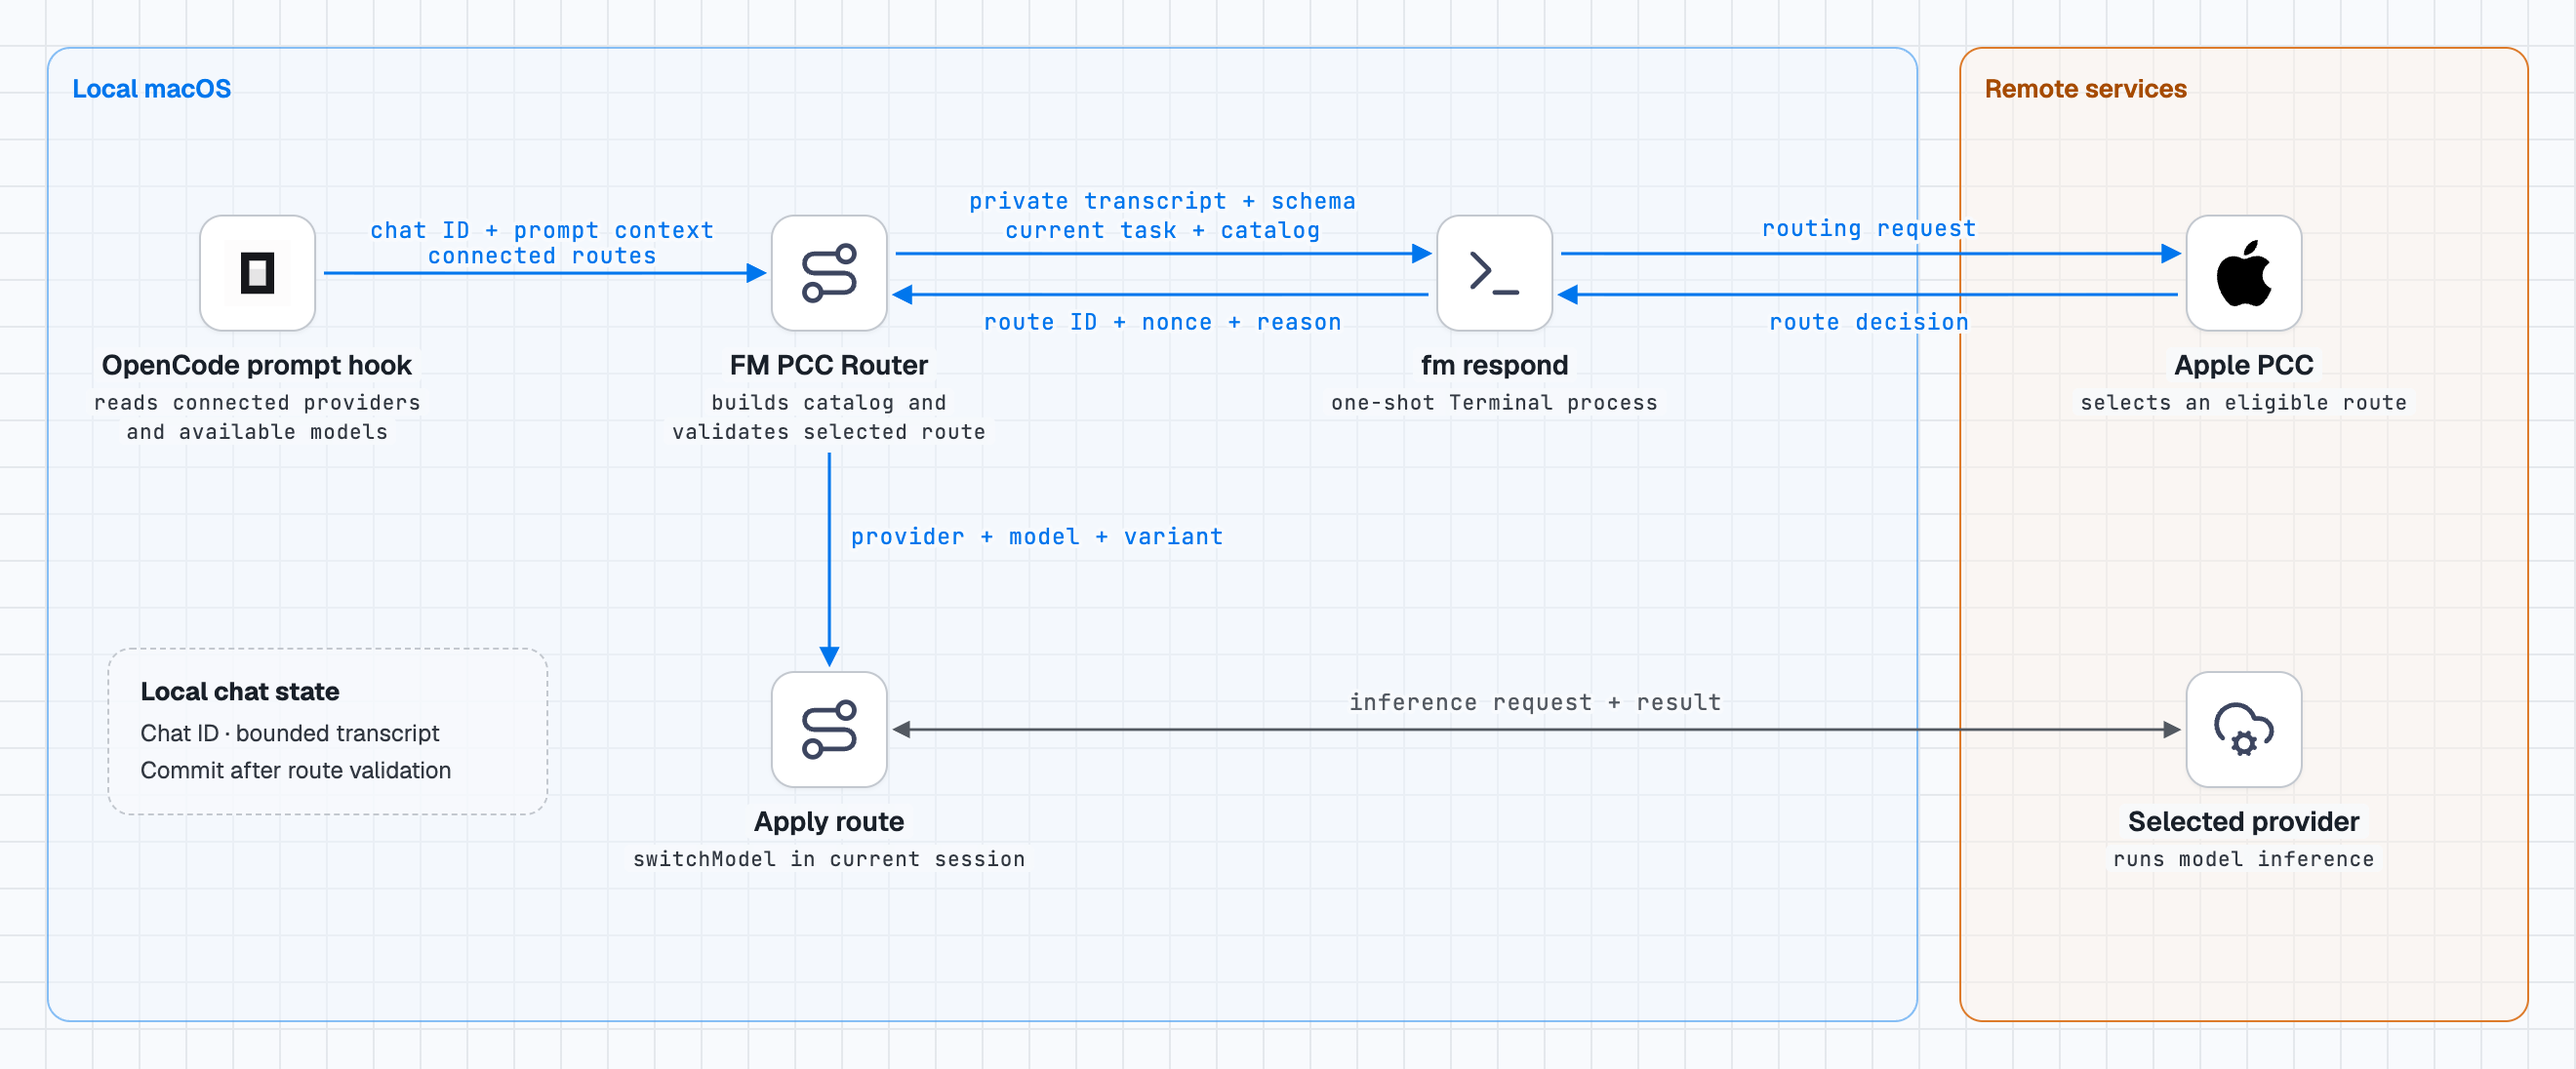
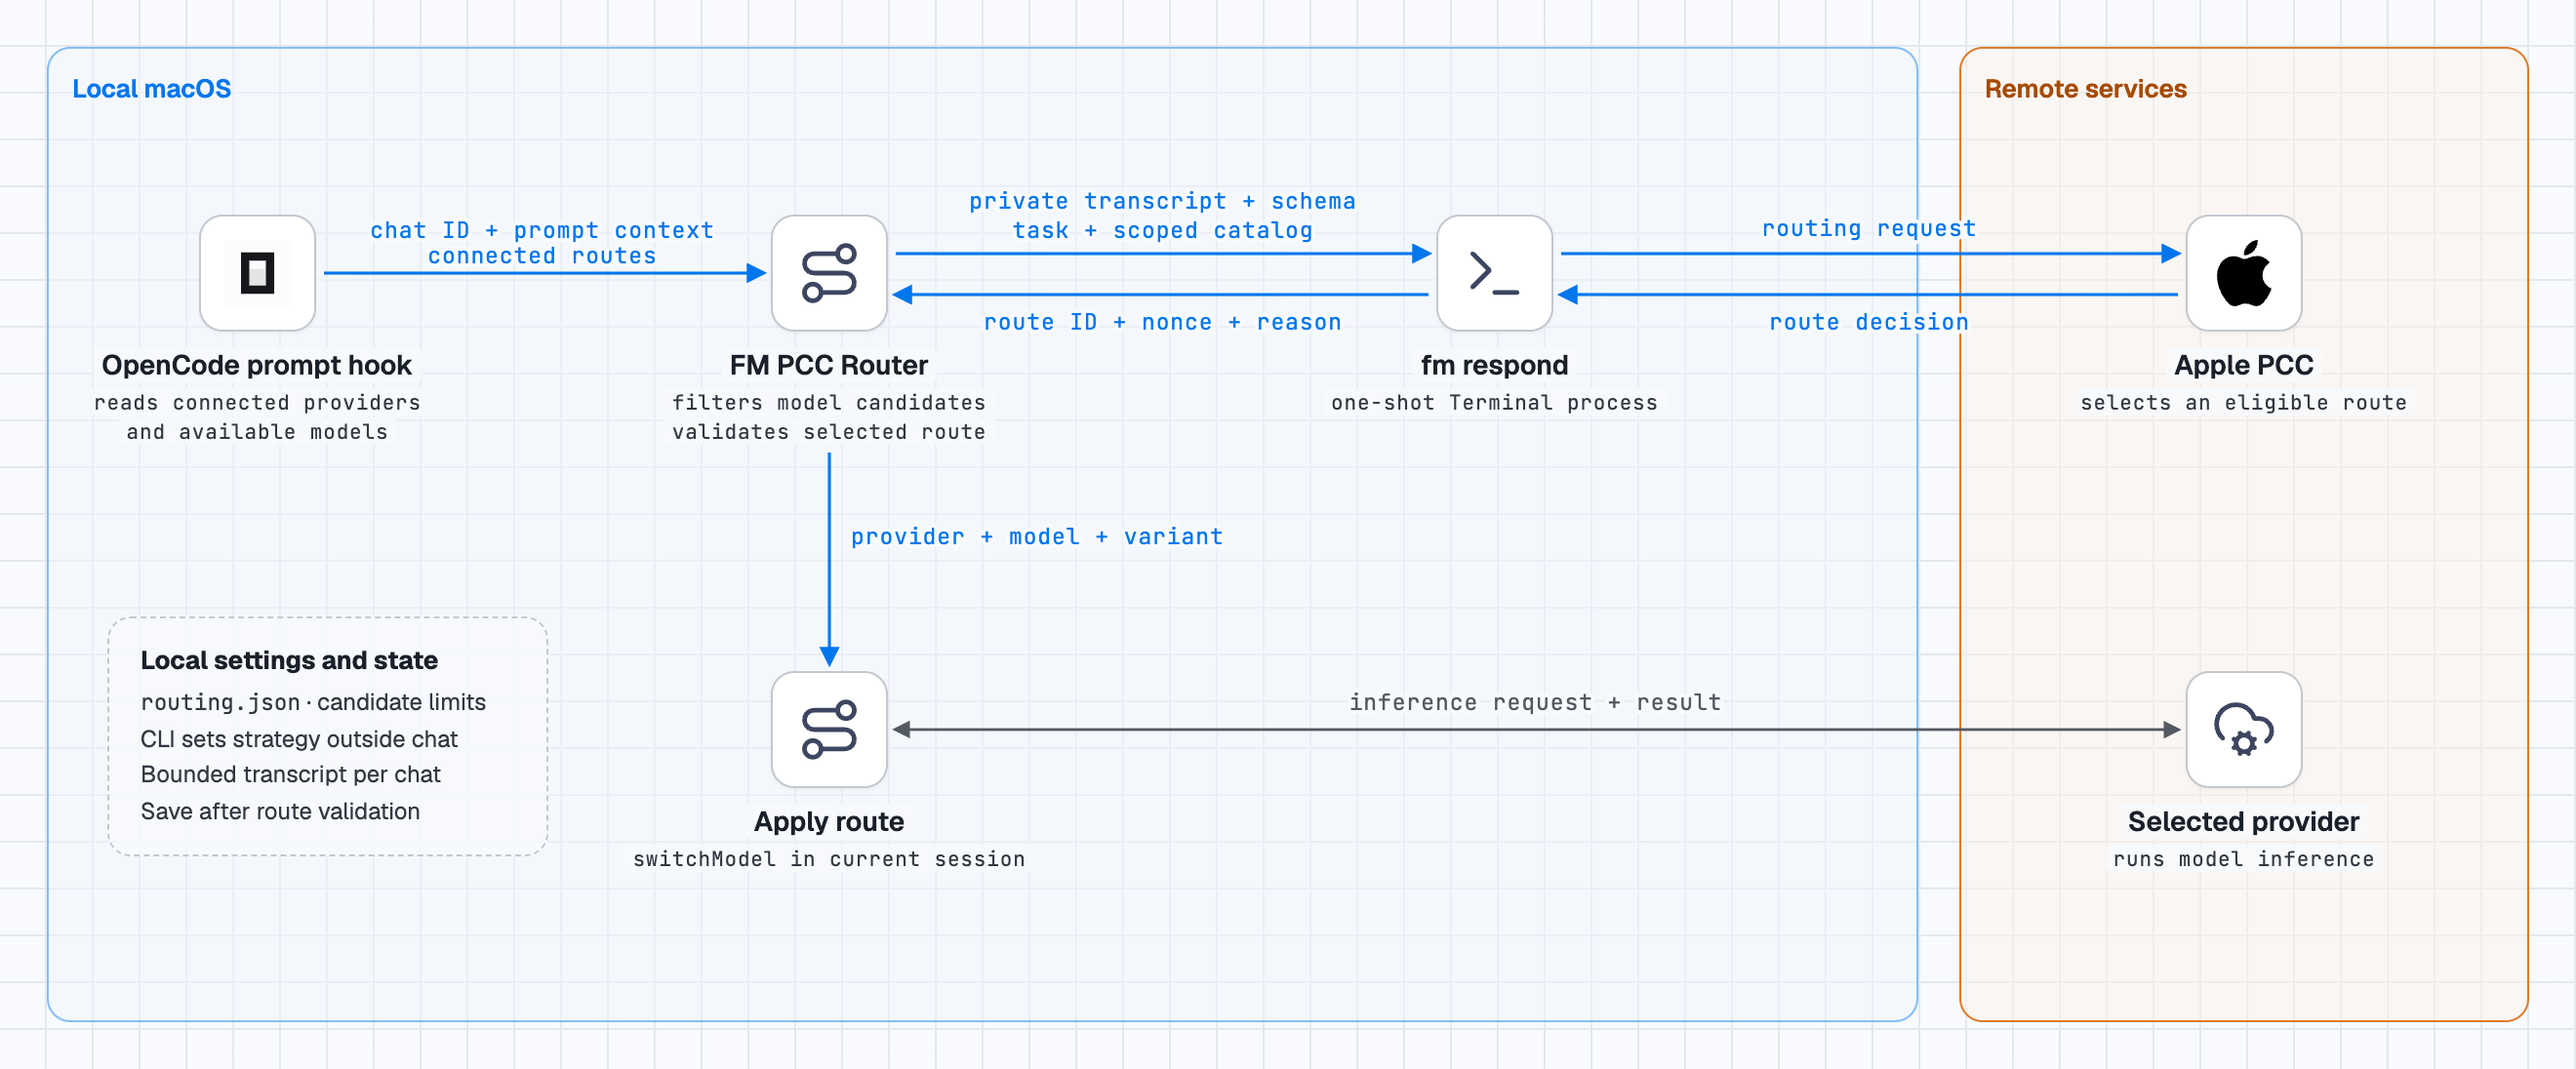
Refresh architecture diagrams for the 0.5.0 release

Changed region(s): [[0.0621, 0.5894, 0.1864, 0.7755], [0.4038, 0.1861, 0.497, 0.2482], [0.2795, 0.3723, 0.3727, 0.4033]]

diff --git a/docs/architecture-codex.html b/docs/architecture-codex.html
@@ -180,7 +180,7 @@ path.aws { stroke: var(--color-ink); stroke-width:1.6; fill:none; }
   <div><div class="kicker">FM PCC Router / architecture</div><h1>Codex routing</h1></div>
   <p class="lede">Supplies routing guidance at prompt submission and selects a model when the parent plans to delegate.</p>
 </header>
-<div class="scroller"><div class="canvas" role="img" aria-label="On the Mac, UserPromptSubmit supplies guidance to the Codex parent. When delegation is planned, a local helper reads available model and effort pairs from App Server and requests a selection from Apple PCC through fm respond. The parent supplies the validated settings when spawning the native subagent. Delegation history is scoped to the Codex thread.">
+<div class="scroller"><div class="canvas" role="img" aria-label="On the Mac, UserPromptSubmit supplies guidance to the Codex parent. When delegation is planned, a local helper reads available model and effort pairs from App Server and requests a selection from Apple PCC through fm respond. The parent supplies the validated settings when spawning the native subagent. Local candidate limits and the strategy selected by CLI shape the catalog and routing instructions. Calls in the same thread wait for the latest transcript. Native subagent tasks can run in parallel after model selection.">
 <div class="group gb" style="left:24px;top:24px;width:959px;height:500px"><div class="g-label">Local macOS</div></div>
 <div class="group ga" style="left:1004px;top:24px;width:292px;height:500px"><div class="g-label">Remote services</div></div>
 <svg class="edges" viewBox="0 0 1320 548" aria-hidden="true">
@@ -193,9 +193,9 @@ path.aws { stroke: var(--color-ink); stroke-width:1.6; fill:none; }
 <text class="el a" x="499" y="171" text-anchor="middle">model + effort</text>
 <path class="e" d="M665 129 H836" marker-end="url(#ar)"/>
 <text class="el a" x="750" y="104" text-anchor="middle">transcript + schema</text>
-<text class="el a" x="750" y="120" text-anchor="middle">task + catalog</text>
+<text class="el a" x="750" y="120" text-anchor="middle">task + scoped catalog</text>
 <path class="e" d="M836 153 H665" marker-end="url(#ar)"/>
-<text class="el a" x="750" y="171" text-anchor="middle">route ID + nonce + reason</text>
+<text class="el a" x="750" y="171" text-anchor="middle">route ID, nonce, reason</text>
 <path class="e" d="M904 129 H1116" marker-end="url(#ar)"/>
 <text class="el a" x="1010" y="120" text-anchor="middle">routing request</text>
 <path class="e" d="M1116 153 H904" marker-end="url(#ar)"/>
@@ -211,13 +211,13 @@ path.aws { stroke: var(--color-ink); stroke-width:1.6; fill:none; }
 </svg>
[10 lines of base64/hex data omitted]
-<div class="callout" style="left:47px;top:323px;width:183px"><h2>Local thread state</h2><p>Recent delegation descriptions<br>Commit after validation</p></div>
+<div class="callout" style="left:47px;top:316px;width:213px"><h2>Local settings and state</h2><p><code>routing.json</code> · candidate limits<br>CLI sets strategy outside chat<br>Recent delegations per thread<br>Save after route validation</p></div>
 </div></div>
 <div class="legend"><span><span class="sw"></span>routing</span><span><span class="sw n"></span>catalog lookup and inference</span></div>
 <div class="foot"><span>The hook supplies guidance locally. The explicit <code>fm-pcc-router</code> skill uses the same helper. <code>PostModelRequest</code> can verify the observed model.</span><span>icons: svgl / Lucide · made with <a href="https://github.com/caru-ini/stack-diagram" target="_blank" rel="noopener">stack-diagram</a></span></div>

diff --git a/docs/architecture-opencode.html b/docs/architecture-opencode.html
@@ -180,7 +180,7 @@ path.aws { stroke: var(--color-ink); stroke-width:1.6; fill:none; }
   <div><div class="kicker">FM PCC Router / architecture</div><h1>OpenCode routing</h1></div>
   <p class="lede">Selects an eligible provider, model, and variant for the current OpenCode session.</p>
 </header>
-<div class="scroller"><div class="canvas" role="img" aria-label="On the Mac, OpenCode supplies a prompt, limited context, and its connected provider catalog to the router. A one-shot fm respond call requests a route from Apple PCC. OpenCode applies the result in its current session and sends the inference request to the selected provider. The router keys local transcript state to the chat ID.">
+<div class="scroller"><div class="canvas" role="img" aria-label="On the Mac, OpenCode supplies a prompt, limited context, and its connected provider catalog to the router. A one-shot fm respond call requests a route from Apple PCC. OpenCode applies the result in its current session and sends the inference request to the selected provider. The router reads local candidate limits and the strategy selected by CLI for the chat, and keys the bounded transcript to the chat ID.">
 <div class="group gb" style="left:24px;top:24px;width:959px;height:500px"><div class="g-label">Local macOS</div></div>
 <div class="group ga" style="left:1004px;top:24px;width:292px;height:500px"><div class="g-label">Remote services</div></div>
 <svg class="edges" viewBox="0 0 1320 548" aria-hidden="true">
@@ -190,7 +190,7 @@ path.aws { stroke: var(--color-ink); stroke-width:1.6; fill:none; }
 <text class="el a" x="278" y="135" text-anchor="middle">connected routes</text>
 <path class="e" d="M459 130 H732" marker-end="url(#ar)"/>
 <text class="el a" x="596" y="107" text-anchor="middle">private transcript + schema</text>
-<text class="el a" x="596" y="122" text-anchor="middle">current task + catalog</text>
+<text class="el a" x="596" y="122" text-anchor="middle">task + scoped catalog</text>
 <path class="e" d="M732 151 H459" marker-end="url(#ar)"/>
 <text class="el a" x="596" y="169" text-anchor="middle">route ID + nonce + reason</text>
 <path class="e" d="M800 130 H1116" marker-end="url(#ar)"/>
@@ -203,12 +203,12 @@ path.aws { stroke: var(--color-ink); stroke-width:1.6; fill:none; }
 <text class="el" x="787" y="364" text-anchor="middle">inference request + result</text>
 </svg>
[7 lines of base64/hex data omitted]
-<div class="callout" style="left:55px;top:332px;width:226px"><h2>Local chat state</h2><p>Chat ID · bounded transcript<br>Commit after route validation</p></div>
+<div class="callout" style="left:55px;top:316px;width:226px"><h2>Local settings and state</h2><p><code>routing.json</code> · candidate limits<br>CLI sets strategy outside chat<br>Bounded transcript per chat<br>Save after route validation</p></div>
 </div></div>
 <div class="legend"><span><span class="sw"></span>routing</span><span><span class="sw n"></span>catalog lookup and inference</span></div>
 <div class="foot"><span>The temporary Terminal window closes after routing. A remote inference provider is shown.</span><span>icons: svgl / Lucide · made with <a href="https://github.com/caru-ini/stack-diagram" target="_blank" rel="noopener">stack-diagram</a></span></div>

diff --git a/README.md b/README.md
@@ -8,11 +8,13 @@ Uses Apple Foundation Models and Private Cloud Compute (PCC) to route OpenCode r
 
 The router opens a temporary Terminal window and runs `fm respond --model pcc` once per routing decision. It supplies the routing input in a private transcript file and closes the window after the call. The selected provider runs the task's model inference.
 
+Both integrations apply the [local candidate limits](#optional-model-candidate-limits) and the [strategy selected for the chat](#routing-strategies) before sending a routing request. The shared CLI changes strategy settings outside the conversation.
+
 ### OpenCode
 
 <picture>
   <source media="(prefers-color-scheme: dark)" srcset="docs/architecture-opencode-dark.png">
-  <img alt="OpenCode routing across local macOS, Apple PCC, and the selected provider" src="docs/architecture-opencode.png">
+  <img alt="OpenCode applies local candidate limits and a chat strategy, asks Apple PCC for a route, and switches to the selected provider and model" src="docs/architecture-opencode.png">
 </picture>
 
 OpenCode uses the current chat's recent history and keeps routing state keyed to that chat. A validated route is applied to the current session. Deleting a chat clears its local routing state.
@@ -21,10 +23,10 @@ OpenCode uses the current chat's recent history and keeps routing state keyed to
 
 <picture>
   <source media="(prefers-color-scheme: dark)" srcset="docs/architecture-codex-dark.png">
-  <img alt="Codex delegation through the local prompt hook and router, Apple PCC, and the selected model service" src="docs/architecture-codex.png">
+  <img alt="The Codex helper serializes PCC routing within a thread and returns model and effort settings for subagents that can run in parallel" src="docs/architecture-codex.png">
 </picture>
 
-The Codex helper runs when the parent requests a subagent route. It reuses recent delegation descriptions from the same Codex thread when a thread ID is available.
+The Codex helper runs when the parent requests a subagent route. When a thread ID is available, routing calls for that thread wait for each other so the next call reads the latest saved delegation history. Once each call returns its model and effort, the parent can run the subagent tasks in parallel.
 
 ## Requirements
 
